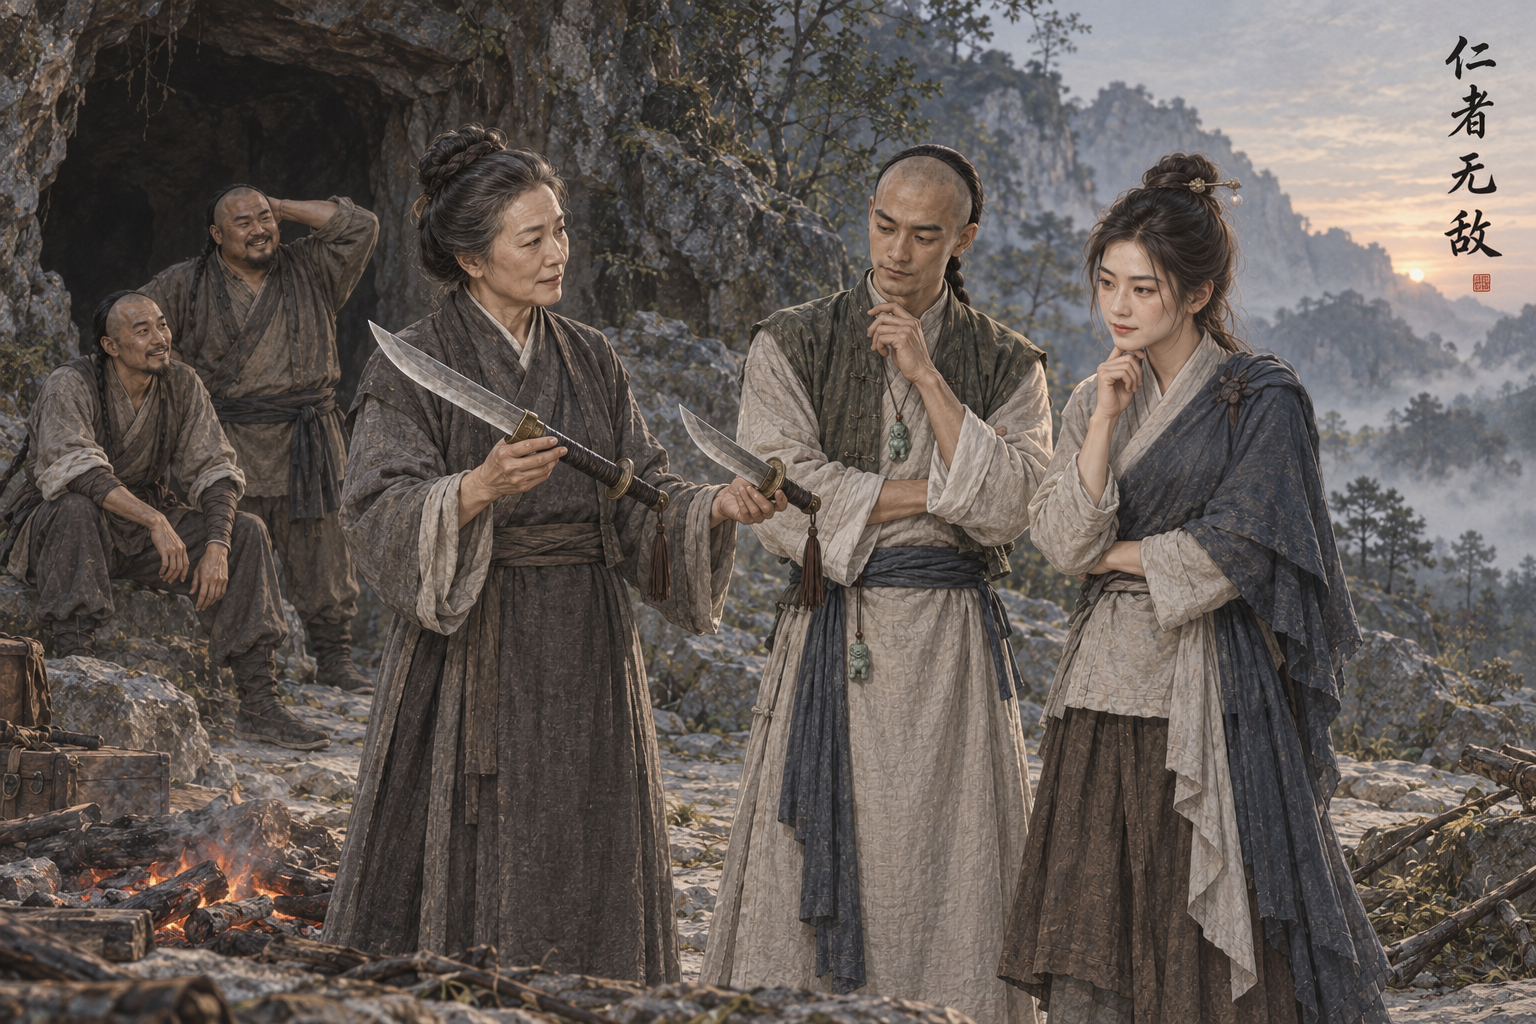
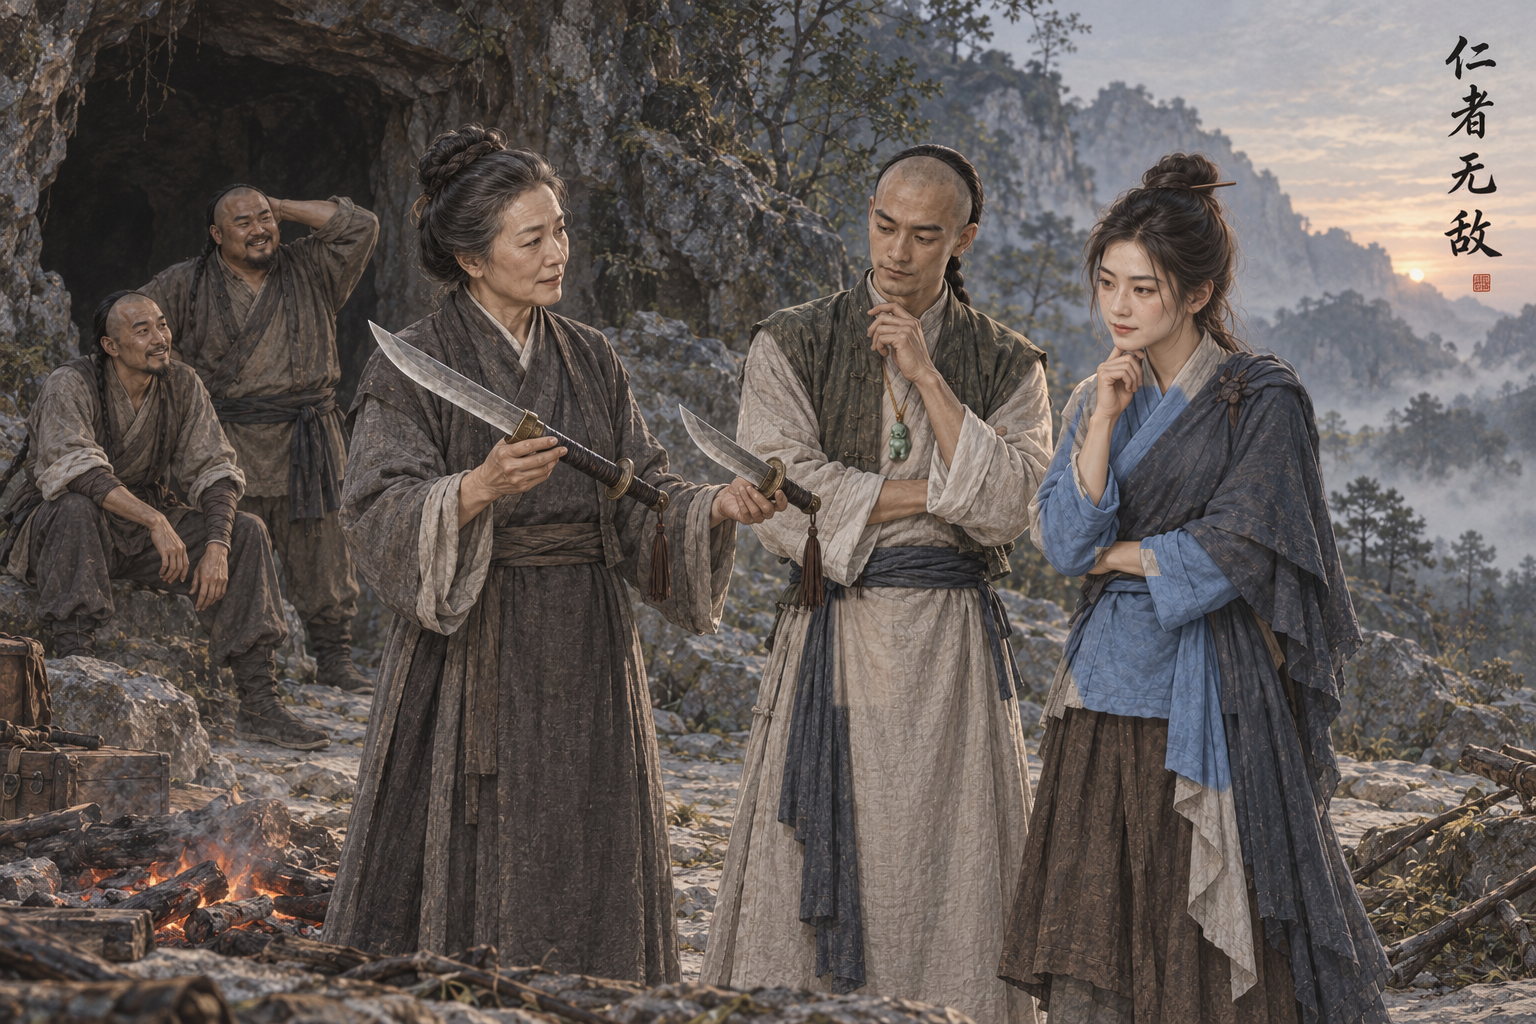
assets: AR-82 原著核对返修 袁冠南、萧中慧、袁冠南、萧中慧、袁冠南、萧中慧
修正原著明确的服饰、器物或剧情状态；编辑范围外像素保持，保留既定面容；同步原著摘句及当前返修要求。

Executed-By: Codex gpt-6.1-sol（AR-82）

diff --git a/assets/default/prompts/scenes/ch11-yuanyang/cg_ch11_jujube_rescue.md b/assets/default/prompts/scenes/ch11-yuanyang/cg_ch11_jujube_rescue.md
@@ -38,6 +38,9 @@ title_verified: 逐字放大核验：笔 / 墨 / 退 / 敌；原生正确
 ## Gemini 提示词
 
 ```text
+【AR-82 当前原著约束，覆盖后文冲突旧描述】只改目标局部：袁冠南腰侧翡翠小狮子去掉腰挂布绳，移到颈下胸前，以细金链挂颈，狮子大小不变；不要腰颈重复挂两只。萧中慧背后髻上的旧珍珠金钗去掉，换素簪；她坐着衣服和手脸不改。她在画面中央石旁的两把普通刀须一短一长，把画面左边地上那把刀刃缩短到原来约一半，画面右边地上的长刀完全不动。所有人物脸、双手、身体姿势、衣服、伤腿状态、笔墨与卓天雄、背景、题字笔墨退敌和印逐像素不变。
+【AR-82 原文摘句】《鸳鸯刀》“细金链上的翡翠狮子”；“右手短刀”“左手长刀”（第四、八节）
+
 生成一张3:2横幅写实手绘古风剧情插画，1536×1024。所有人物明确为成年；单幅完整场景，不拼贴不分镜。
 第1张参考：袁冠南本人基础图，只锁定该人的面容与成人体态；未另述衣装时沿用本人base，明确场面要求优先。
 第2张参考：袁冠南·笔墨退强敌阶段图，锁定新身份与年龄，衣物道具以【场面】为准，不复制姿势背景。
@@ -56,3 +59,15 @@ title_verified: 逐字放大核验：笔 / 墨 / 退 / 敌；原生正确
 
 - 参考分工见实际提示词；配色、姿势、取景及成年化均为（原创扩展）。
 - 本轮结果已逐图目检并入库为 candidate；实际作业与参考哈希见 manifest。
+
+
+## 原著依据
+
+- AR-82 同步依据：《鸳鸯刀》“细金链上的翡翠狮子”；“右手短刀”“左手长刀”（第四、八节）；执行：只改目标局部：袁冠南腰侧翡翠小狮子去掉腰挂布绳，移到颈下胸前，以细金链挂颈，狮子大小不变；不要腰颈重复挂两只。萧中慧背后髻上的旧珍珠金钗去掉，换素簪；她坐着衣服和手脸不改。她在画面中央石旁的两把普通刀须一短一长，把画面左边地上那把刀刃缩短到原来约一半，画面右边地上的长刀完全不动。所有人物脸、双手、身体姿势、衣服、伤腿状态、笔墨与卓天雄、背景、题字笔墨退敌和印逐像素不变。
+
+
+## AR-82 当前返修约束
+
+只改目标局部：袁冠南腰侧翡翠小狮子去掉腰挂布绳，移到颈下胸前，以细金链挂颈，狮子大小不变；不要腰颈重复挂两只。萧中慧背后髻上的旧珍珠金钗去掉，换素簪；她坐着衣服和手脸不改。她在画面中央石旁的两把普通刀须一短一长，把画面左边地上那把刀刃缩短到原来约一半，画面右边地上的长刀完全不动。所有人物脸、双手、身体姿势、衣服、伤腿状态、笔墨与卓天雄、背景、题字笔墨退敌和印逐像素不变。
+
+以本节及原著依据为当前要求，历史提示词与本节冲突时按本节执行；保留作者选定脸、原画质感与对应剧情阶段。

diff --git a/assets/default/prompts/scenes/ch11-yuanyang/cg_ch11_together_repulse_zhuo.md b/assets/default/prompts/scenes/ch11-yuanyang/cg_ch11_together_repulse_zhuo.md
@@ -38,6 +38,9 @@ title_verified: 逐字放大核验：双 / 刀 / 同 / 心；原生正确
 ## Gemini 提示词
 
 ```text
+【AR-82 当前原著约束，覆盖后文冲突旧描述】只把画面中央萧中慧原灰白上衣与两袖改成蓝衫：上衣主体和左右袖为与当前深蓝披片协调的柔和中蓝布色，保留月白领缘和腰带、褐裙、灰裤、原短刀刀势。她的素簪已正确，完全保留。她的脸、头发、手与身体姿势，袁冠南、卓天雄、两个背景人物全部逐像素不变；题字双刀同心和红印逐像素不变。
+【AR-82 原文摘句】《鸳鸯刀》“一位蓝衫姑娘”；“从头上拔下一枚金钗”；“细金链上的翡翠狮子”（第三、六、八节）
+
 生成一张3:2横幅写实手绘古风剧情插画，1536×1024。所有人物明确为成年；单幅完整场景，不拼贴不分镜。
 第1张参考：袁冠南本人基础图，只锁定该人的面容与成人体态；未另述衣装时沿用本人base，明确场面要求优先。
 第2张参考：袁冠南·紫竹初合刀阶段图，锁定新身份与年龄，衣物道具以【场面】为准，不复制姿势背景。
@@ -58,3 +61,15 @@ title_verified: 逐字放大核验：双 / 刀 / 同 / 心；原生正确
 
 - 参考分工见实际提示词；配色、姿势、取景及成年化均为（原创扩展）。
 - 本轮结果已逐图目检并入库为 candidate；实际作业与参考哈希见 manifest。
+
+
+## 原著依据
+
+- AR-82 同步依据：《鸳鸯刀》“一位蓝衫姑娘”；“从头上拔下一枚金钗”；“细金链上的翡翠狮子”（第三、六、八节）；执行：只把画面中央萧中慧原灰白上衣与两袖改成蓝衫：上衣主体和左右袖为与当前深蓝披片协调的柔和中蓝布色，保留月白领缘和腰带、褐裙、灰裤、原短刀刀势。她的素簪已正确，完全保留。她的脸、头发、手与身体姿势，袁冠南、卓天雄、两个背景人物全部逐像素不变；题字双刀同心和红印逐像素不变。
+
+
+## AR-82 当前返修约束
+
+只把画面中央萧中慧原灰白上衣与两袖改成蓝衫：上衣主体和左右袖为与当前深蓝披片协调的柔和中蓝布色，保留月白领缘和腰带、褐裙、灰裤、原短刀刀势。她的素簪已正确，完全保留。她的脸、头发、手与身体姿势，袁冠南、卓天雄、两个背景人物全部逐像素不变；题字双刀同心和红印逐像素不变。
+
+以本节及原著依据为当前要求，历史提示词与本节冲突时按本节执行；保留作者选定脸、原画质感与对应剧情阶段。
